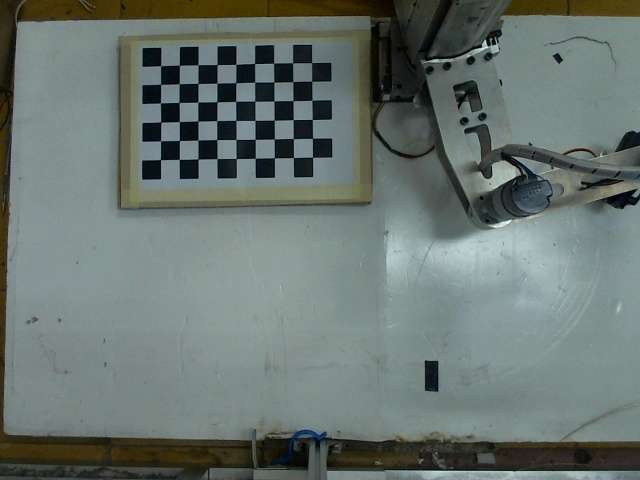
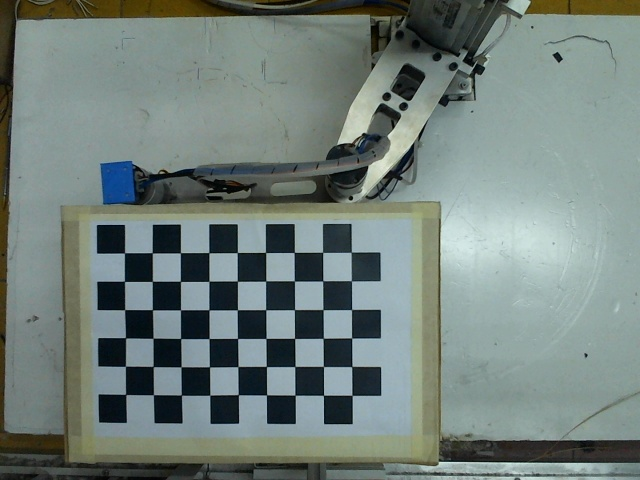
Update for Thesis writing

diff --git a/MainControllerV2.py b/MainControllerV2.py
@@ -119,9 +119,20 @@ class Ui_MainControllerUI(object):
             a_bc = self.mtx_BC.dot(K_bc).dot(np.array([[1, 1, 1, 1]]).T)
             self.s_BC = a_bc.item(2)
             #endregion
+
+            #region: Load M, R, T, corners for Mode 2
+            with np.load('Calib_test.npz') as T:
+                self.mtx_T, self.dist_T, self.rvects_T, self.tvects_T, self.corners_T = [T[i] for i in ('mtx','dist','rvecs','tvecs', 'corners')]
+
+            self.rodrigues_Vecs_T = InverseRodrigues(self.rvects_T)
+            translate_T = np.reshape(self.tvects_T, (3, 1))
+            K_Te = np.concatenate((self.rodrigues_Vecs_T, translate_T), axis=1)
+            a_T = self.mtx_T.dot(K_Te).dot(np.array([[1, 1, 1, 1]]).T)
+            self.s_T = a_T.item(2)
+            #endregion
             
-        except:
-            print('error occured')
+        except Exception as e:
+            print(e)
 
     def setupUi(self, MainControllerUI):
         MainControllerUI.setObjectName("MainControllerUI")
@@ -497,6 +508,8 @@ class Ui_MainControllerUI(object):
 
         self.figure = plt.figure()
         self.ax = self.figure.add_subplot(111)
+        self.ax.set_xlim([-40, 10])
+        self.ax.set_ylim([-10,50])
         self.canvas = FigureCanvas(self.figure)
         layout = QtWidgets.QVBoxLayout()
         layout.addWidget(self.canvas)
@@ -759,13 +772,20 @@ class Ui_MainControllerUI(object):
                     data = command.split('x')[1]
                     decX, decY = int(data[0:2]), int(data[4:6])
                     pX, pY = int(data[2:4]), int(data[6:8])
-                    X = decX + float(pX) / 100.0
+                    X = -(decX + float(pX) / 100.0)
                     Y = decY + float(pY) / 100.0
                     
                     self.WriteToExcel(self.row, self.col + 4, X, Y)
                     self.row += 1
                     self.col = 0
                     self.plot(X, Y, 'ARM')
+                    try:
+                        (pointX, pointY) = self.CheckPositionArm()
+                        self.WriteToExcel(self.row, self.col, pointX, pointY)
+                        self.plot(pointX, pointY, 'CAM')
+                    except:
+                        print('Not camera')
+
             else:
                 print('in nothing')
                 print(command)
@@ -1017,7 +1037,7 @@ class Ui_MainControllerUI(object):
         # ax.hold(False) # deprecated, see above
         if title == 'ARM':
         # plot data
-            self.ax.plot(x, y, 'bo')
+            self.ax.plot(x, y, 'bx')
         elif title == 'CAM':
             self.ax.plot(x, y, 'r*')
         # refresh canvas
@@ -1063,10 +1083,12 @@ class Ui_MainControllerUI(object):
         rectAngle = cv2.minAreaRect(c)
         tam = rectAngle[0]
         a = np.array([[tam[0], tam[1], 1]]).T
-        realCenter = ImgPoints2RealPoints(self.mtx, self.rodrigues_Vecs, self.tvects, a, self.s)
+        realCenter = ImgPoints2RealPoints(self.mtx_T, self.rodrigues_Vecs_T, self.tvects_T, a, self.s_T)
         _x, _y = realCenter.item(0), realCenter.item(1)
-        pointX = _x * 2.45 - 34.15 - 7
-        pointY = _y * 2.45 + 0 - 9
+        pointX = _x * 2.45 - 30.57
+        pointY = _y * 2.45 + 23.5
+        cv2.imshow('ABC', mask)
+        print(pointX, pointY)
         return (pointX, pointY)
     
     def WriteToExcel(self, row, col, data1, data2):

diff --git a/Calibration.py b/Calibration.py
@@ -44,7 +44,7 @@ def GetCalibrationParams():
             img = cv2.drawChessboardCorners(img, (9,6), corners2,ret)
             ret, mtx, dist, rvecs, tvecs = cv2.calibrateCamera(objpoints, imgpoints, gray.shape[::-1],None,None)
 
-            np.savez('Calib.npz', mtx=mtx, dist=dist, rvecs=rvecs, tvecs=tvecs, corners=corners2)
+            np.savez('Calib_test.npz', mtx=mtx, dist=dist, rvecs=rvecs, tvecs=tvecs, corners=corners2)
             cv2.imshow('img',img)
             cv2.waitKey(0)
             break
